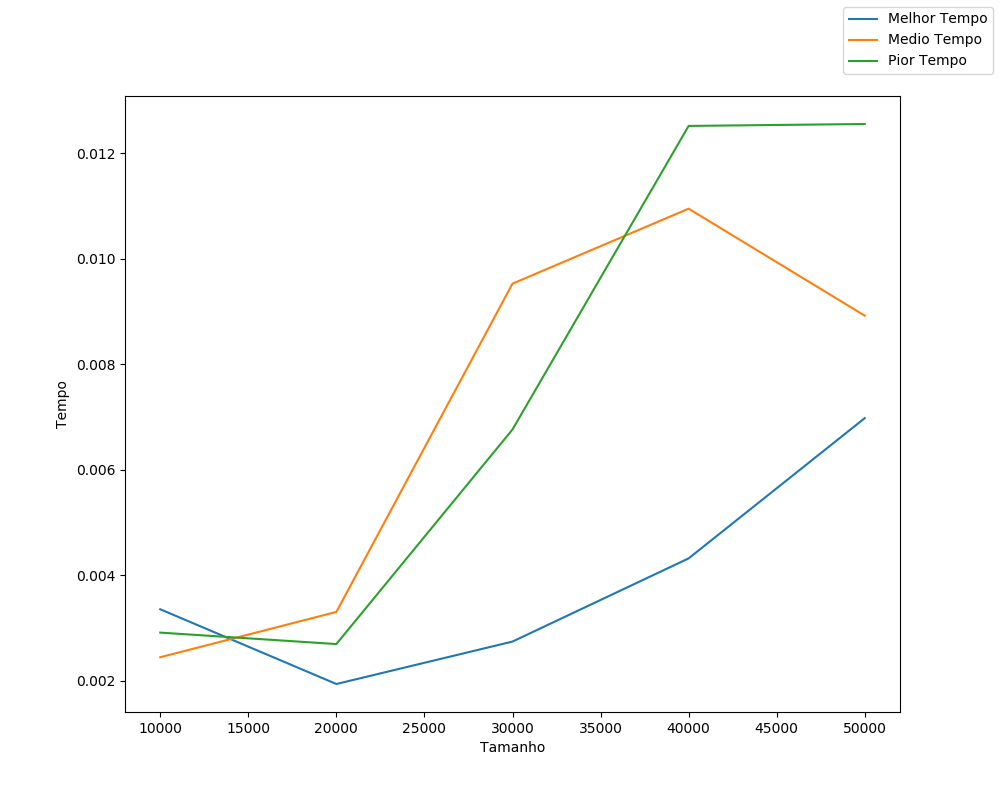
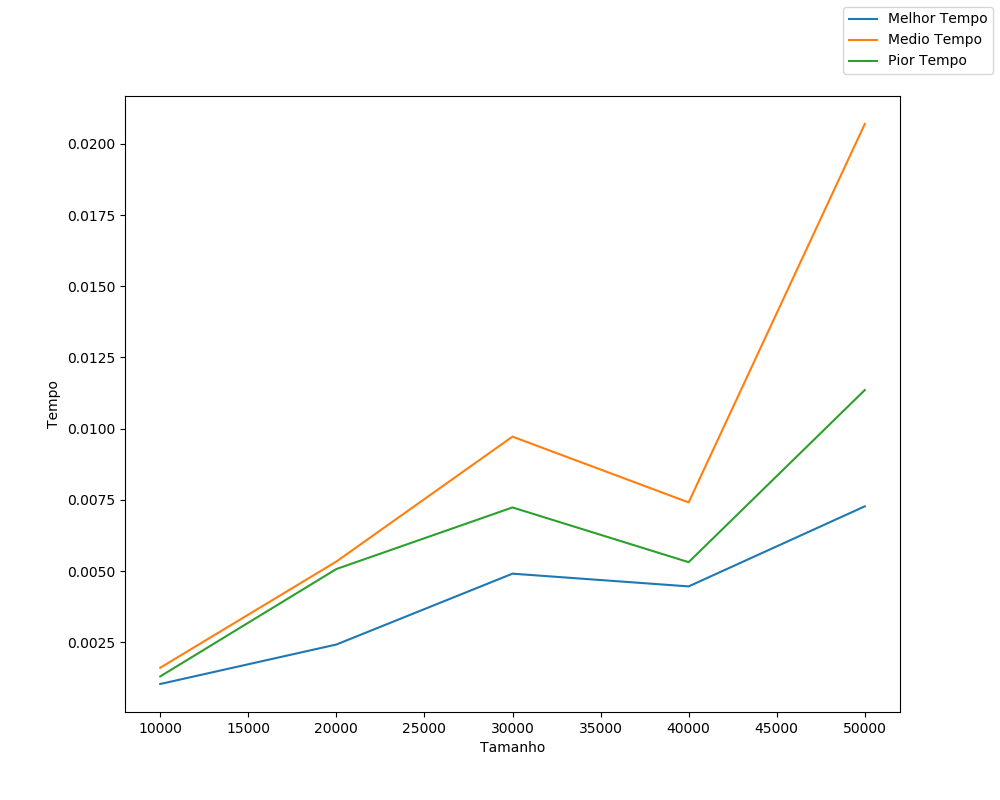
ct0105-p2 and graph

diff --git a/shell-sort/ct0105-p2.py b/shell-sort/ct0105-p2.py
@@ -1,0 +1,42 @@
+#Walmick Diógenes Nogueira de Queirós
+
+#Mostrar qual realmente eh o pior caso para o algoritmo de seleção usando uma serie de 6 números
+#(Gerar todas as permutações possíveis e mostrar o pior e o melhor resultados)
+
+from random import randint
+import matplotlib as mpl
+import itertools as it
+import timeit
+
+permutacao = (list(it.permutations(range(6))))
+
+def shell_sort(array):
+    n = len(array)
+    gap = n // 2
+
+    while gap > 0:
+        for i in range(gap, n):
+            aux = array[i]
+            j = i
+            while j >= gap and array[j - gap] > aux:
+                array[j] = array[j - gap]
+                j -= gap
+            array[j] = aux
+        gap //= 2
+
+        return(array)
+
+tempo = []
+
+for i in permutacao:
+    permuta = list(i)
+    tempo.append(timeit.timeit("shell_sort({})".format(permuta),setup="from __main__ import shell_sort",number=1))
+
+
+melhorTempo = tempo.index(min(tempo))
+piorTempo = tempo.index(max(tempo))
+
+print(min(tempo))
+print(permutacao[melhorTempo])
+print(max(tempo))
+print(permutacao[piorTempo])
